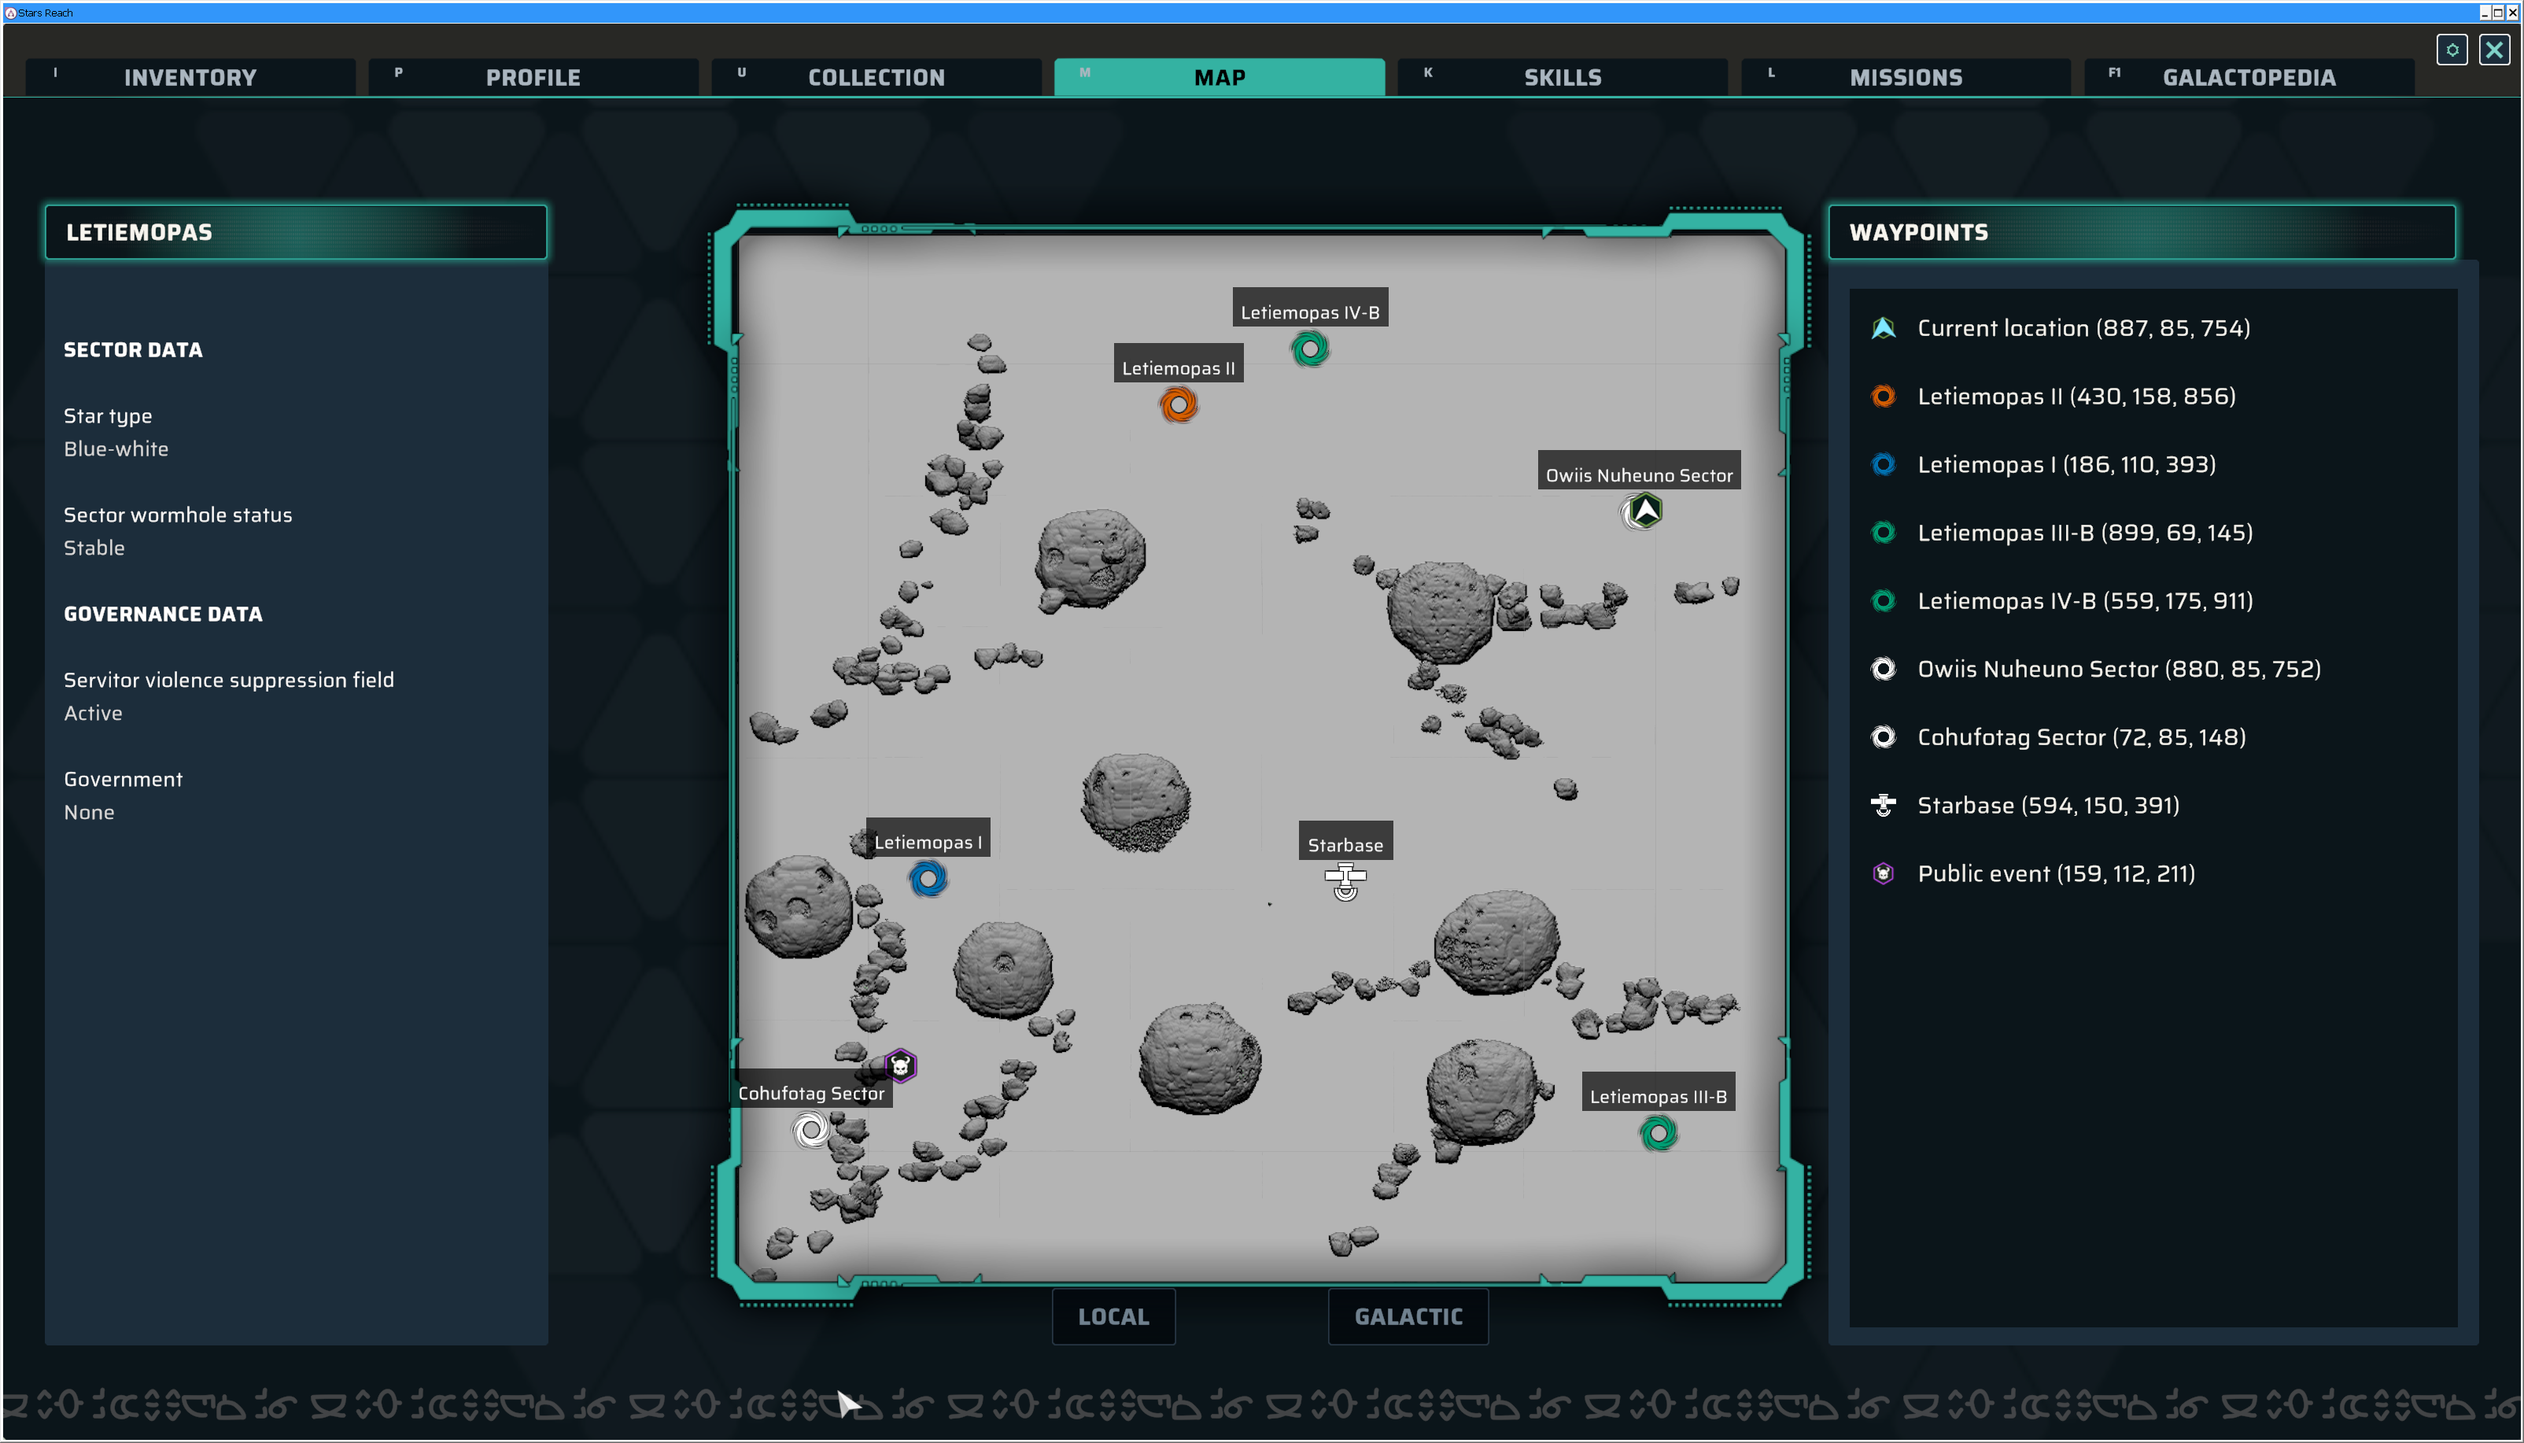
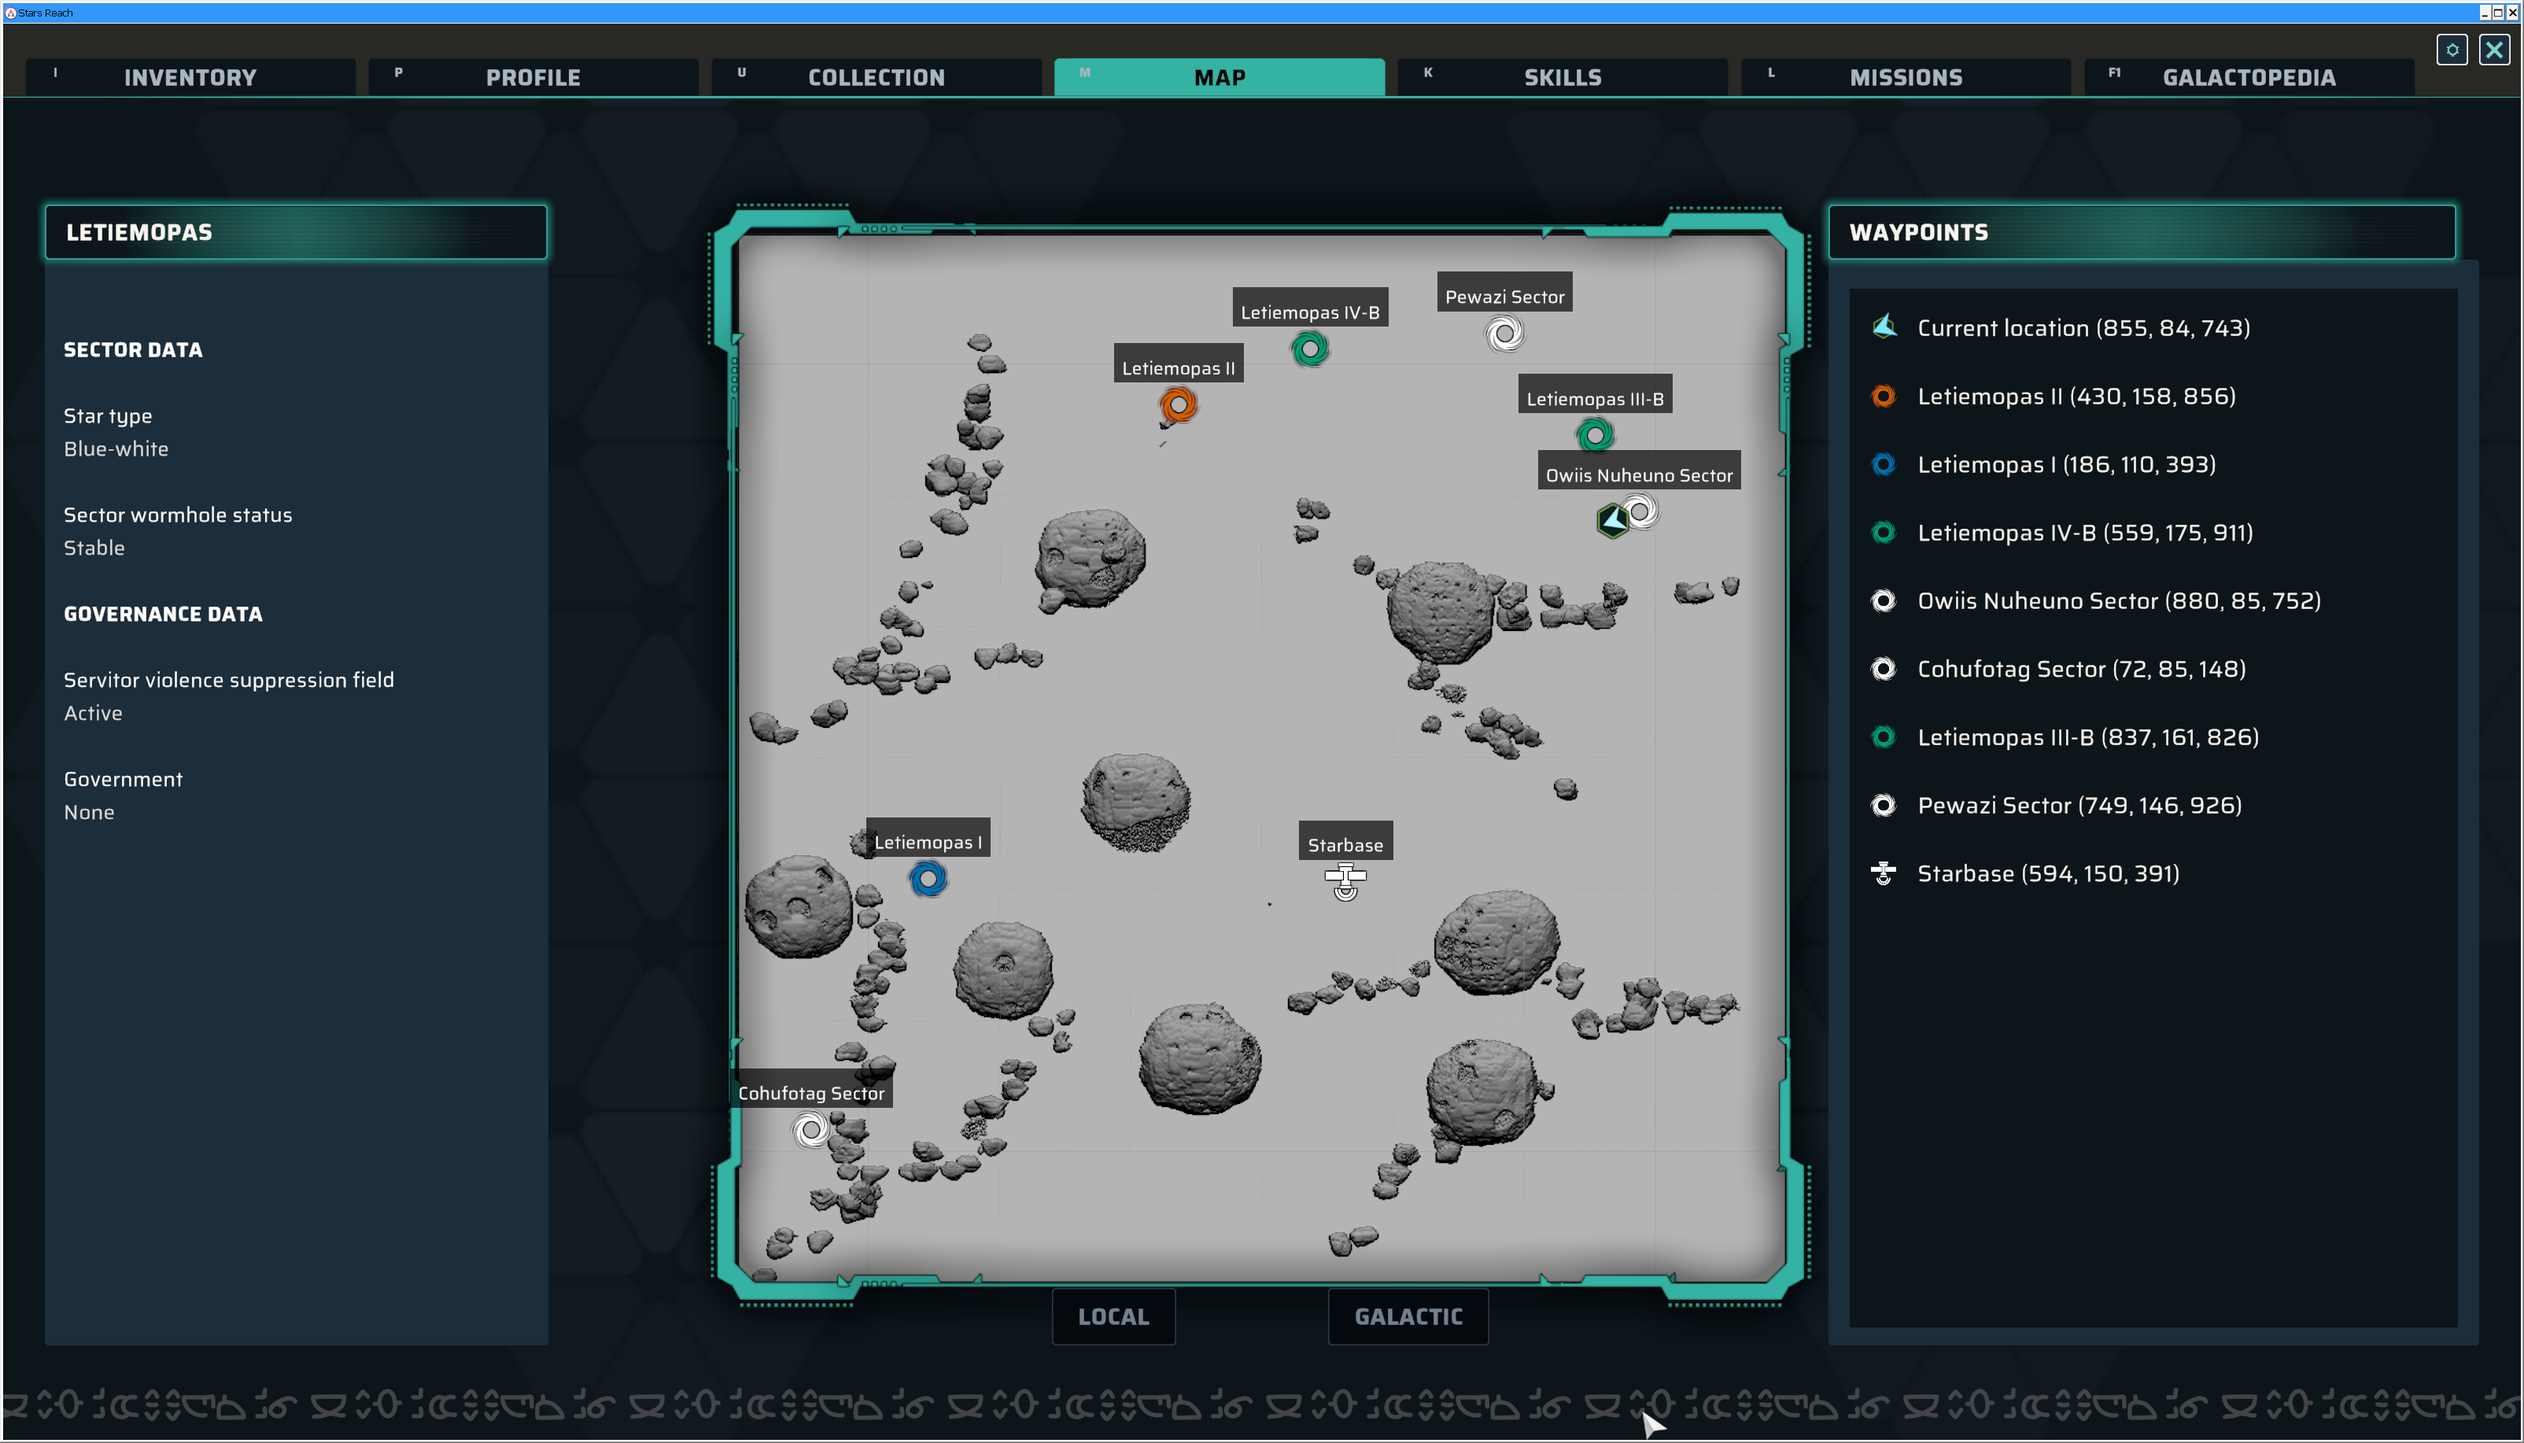
docs: add Letiemopas ecology and govbot data, plus Owiis Nuheuno II
Letiemopas gains its ecology values and both fixed planets; its map
recapture adds the Pewazi connection. Owiis Nuheuno II gets its govbot
values.

Claude-Session: https://claude.ai/code/session_01C4zzDpdbtG96xS81ixy1CK

diff --git a/Sectors.md b/Sectors.md
@@ -90,15 +90,32 @@ graph LR
 
 ### Letiemopas
 
+#### Letiemopas - Information
+
+- Health: 95.8%
+- Minerals: Quantity 69%, Diversity 100%
+- Flora: Quantity 100%, Diversity 100%
+- Fauna: Quantity 100%, Diversity 100%
+- Servitor Edicts: Iron, Vesuvianite, Tungsten
+
 #### Letiemopas - Connections
 
 - Starbase
 - Sector Connections
   - Cohufotag
   - Owiis Nuheuno
+  - Pewazi
 - Planets
   - Letiemopas I
+    - Population: 253
+    - Mineral Edicts: Copper, Gold, Magnetized Iron, Tin, Mercury, Magnesium, Lithium
+    - Flora Edicts: None
+    - Fauna Edicts: None
   - Letiemopas II
+    - Population: 147
+    - Mineral Edicts: Copper, Gold, Iron, Titanium, Diamond, Lapis Lazuli, Zircon, Tungsten, Magnesium
+    - Flora Edicts: None
+    - Fauna Edicts: Velocirabbit
   - Letiemopas III-B
   - Letiemopas IV-B
 
@@ -127,6 +144,10 @@ graph LR
     - Flora Edicts: Banyan, Truffula, Papaya
     - Fauna Edicts: None
   - Owiis Nuheuno II
+    - Population: 135
+    - Mineral Edicts: Copper, Garnet, Gold, Iron, Opal
+    - Flora Edicts: Baobab
+    - Fauna Edicts: None
   - Owiis Nuheuno III-C
   - Owiis Nuheuno IV-C
 
